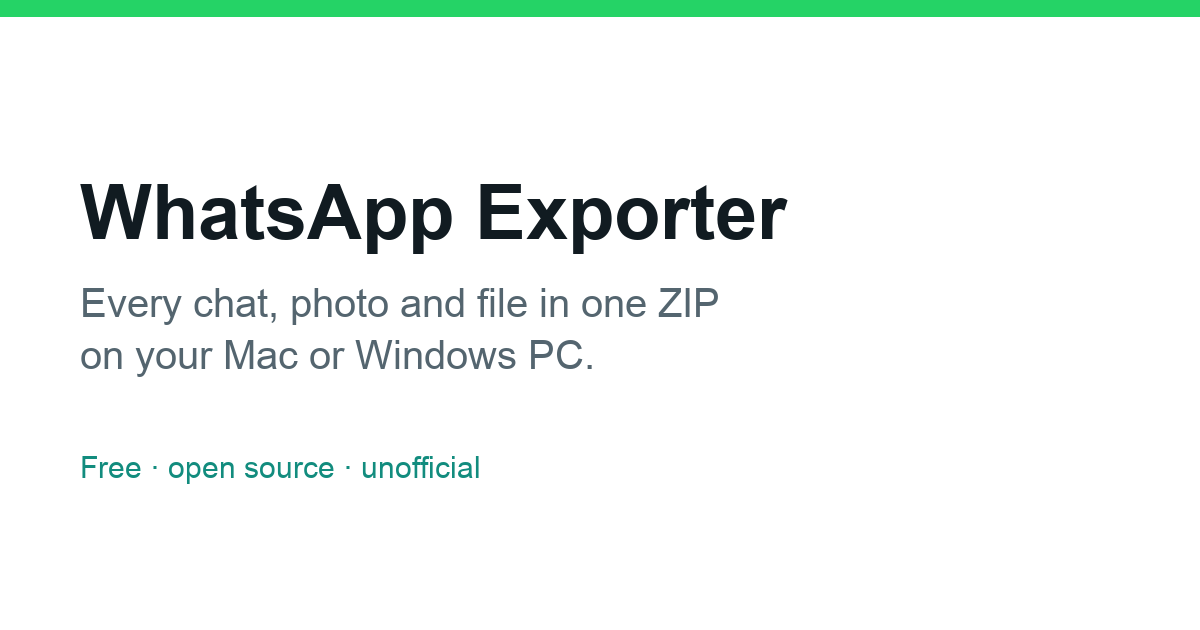
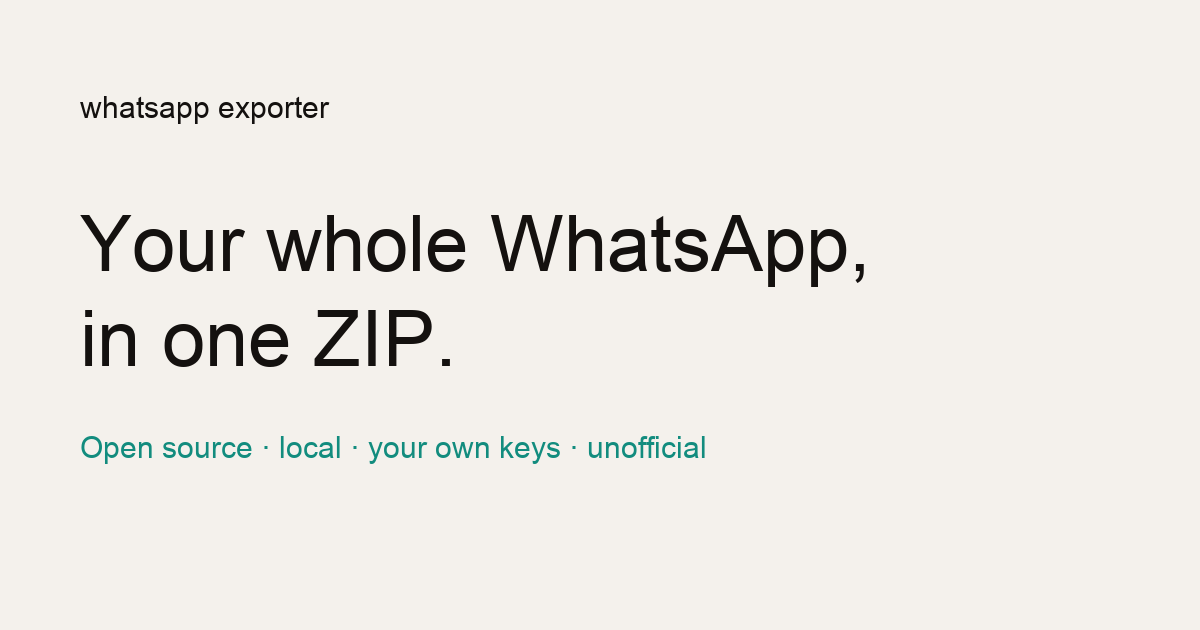
Redesign the website as a hero and three sections
Warm paper look with one green accent: a hero with the install line and a
terminal window, then sharing data freely with a redaction example,
privacy and ownership, and how it works in three steps.

diff --git a/docs/index.html b/docs/index.html
@@ -4,94 +4,264 @@
 <meta charset="utf-8">
 <meta name="viewport" content="width=device-width, initial-scale=1">
 <title>WhatsApp Exporter</title>
-<meta name="description" content="Save every WhatsApp chat, photo and file into one ZIP on your Mac or Windows PC, with optional redaction of personal details. Free and open source.">
+<meta name="description" content="Save every WhatsApp chat, photo and file into one ZIP on your computer. Hide personal details so you can share it freely. Open source, local, your own keys.">
 <meta property="og:title" content="WhatsApp Exporter">
-<meta property="og:description" content="Every chat, photo and file in one ZIP on your computer. Free, open source, unofficial.">
+<meta property="og:description" content="Every chat in one ZIP on your computer. Redact it and share it freely. Open source and local.">
 <meta property="og:image" content="https://girumdoctours.github.io/whatsapp-exporter/og.png">
 <meta name="twitter:card" content="summary_large_image">
 <meta name="color-scheme" content="light">
+<link rel="preconnect" href="https://fonts.googleapis.com">
+<link rel="preconnect" href="https://fonts.gstatic.com" crossorigin>
+<link href="https://fonts.googleapis.com/css2?family=Inter:wght@400;500;600&family=JetBrains+Mono:wght@400;600&display=swap" rel="stylesheet">
 <style>
-:root{--green:#25d366;--dark:#128c7e;--ink:#111b21;--muted:#54656f;--line:#e2e8ea;--soft:#f0f2f5}
+:root{
+  --paper:#f4f1ec;--paper2:#efebe4;--ink:#14110f;--muted:rgba(20,17,15,.55);--faint:rgba(20,17,15,.42);
+  --green:#128c7e;--green-soft:#e3f1ec;--line:rgba(20,17,15,.08);
+  --tray:rgba(255,255,255,.55);--shadow:0 24px 60px -30px rgba(70,50,30,.35);
+}
 *{box-sizing:border-box}
-body{margin:0;background:#fff;color:var(--ink);font:17px/1.6 -apple-system,BlinkMacSystemFont,"Segoe UI",Roboto,Helvetica,Arial,sans-serif}
-main{max-width:720px;margin:0 auto;padding:56px 20px 40px}
-h1{font-size:clamp(32px,6vw,44px);line-height:1.1;margin:0 0 14px;letter-spacing:-.02em}
-h2{font-size:22px;margin:40px 0 12px}
-p{margin:0 0 14px}
-.lede{font-size:19px;color:var(--muted)}
-.small{font-size:14px;color:var(--muted)}
-a{color:var(--dark)}
-.tabs{display:flex;gap:8px;margin:20px 0 12px}
-.tabs button{flex:0 0 auto;border:1px solid var(--line);background:#fff;color:var(--ink);font:600 15px inherit;font-family:inherit;padding:8px 18px;border-radius:999px;cursor:pointer}
-.tabs button[aria-selected="true"]{background:var(--green);border-color:var(--green);color:#fff}
-.cmd{display:flex;gap:10px;align-items:flex-start;background:var(--soft);border:1px solid var(--line);border-radius:12px;padding:14px}
-.cmd code{flex:1;font:14px/1.5 ui-monospace,Menlo,Consolas,monospace;word-break:break-all}
-.copy{flex:0 0 auto;background:var(--dark);color:#fff;border:0;border-radius:8px;padding:8px 14px;font:600 14px inherit;font-family:inherit;cursor:pointer}
-ol,ul{margin:12px 0 0;padding-left:22px}
-li{margin-bottom:6px}
-.tag{font:13px ui-monospace,Menlo,monospace;background:#e7fce3;color:#0b6e4f;border-radius:5px;padding:1px 5px}
-footer{max-width:720px;margin:0 auto;padding:20px;border-top:1px solid var(--line);font-size:14px;color:var(--muted)}
+[hidden]{display:none!important}
+html{scroll-behavior:smooth}
+body{margin:0;background:var(--paper);color:var(--ink);font:16px/1.6 Inter,-apple-system,BlinkMacSystemFont,"Segoe UI",Roboto,sans-serif;-webkit-font-smoothing:antialiased}
+.mono{font-family:"JetBrains Mono",ui-monospace,Menlo,Consolas,monospace}
+a{color:inherit}
+.wrap{max-width:1120px;margin:0 auto;padding:0 32px}
+nav{position:fixed;top:0;left:0;right:0;z-index:20;padding:14px 32px;display:flex;justify-content:space-between;align-items:center;background:rgba(244,241,236,.72);backdrop-filter:blur(14px) saturate(1.2);-webkit-backdrop-filter:blur(14px) saturate(1.2)}
+.mark{font-weight:500;font-size:17px;letter-spacing:-.01em;text-decoration:none}
+.pills{display:flex;gap:10px}
+.pill{display:inline-flex;align-items:center;gap:8px;height:40px;padding:0 18px;border-radius:99px;font-size:15px;font-weight:500;text-decoration:none;background:rgba(255,255,255,.62);backdrop-filter:blur(14px) saturate(1.3);-webkit-backdrop-filter:blur(14px) saturate(1.3);box-shadow:inset 0 0 0 1px rgba(255,255,255,.85),0 8px 24px -12px rgba(70,50,30,.28);border:0;cursor:pointer;color:var(--ink)}
+.pill.solid{background:var(--ink);color:#fff;box-shadow:0 8px 24px -12px rgba(20,17,15,.6)}
+.pill.green{background:var(--green);color:#fff;box-shadow:0 8px 24px -12px rgba(18,140,126,.7)}
+h1,h2{font-weight:400;letter-spacing:-.035em;margin:0}
+h1{font-size:clamp(40px,5.2vw,60px);line-height:1.04}
+h2{font-size:clamp(34px,4.4vw,54px);line-height:1.05}
+.sub{font-size:20px;line-height:1.5;color:var(--faint);margin:20px 0 0;max-width:30em}
+.label{font-size:13px;font-weight:500;color:var(--green);letter-spacing:.02em;margin-bottom:16px;display:flex;align-items:center;gap:8px}
+.label::before{content:"";width:6px;height:6px;border-radius:50%;background:var(--green)}
+.tray{background:var(--tray);border-radius:30px;padding:14px;box-shadow:var(--shadow);box-shadow:inset 0 0 0 1px rgba(255,255,255,.7),var(--shadow)}
+.card{background:#fff;border-radius:20px;box-shadow:0 1px 0 rgba(20,17,15,.04)}
+header{min-height:88vh;display:flex;align-items:center;padding:110px 0 60px}
+.hero{display:grid;grid-template-columns:1fr 1.05fr;gap:56px;align-items:center}
+.ctas{display:flex;flex-wrap:wrap;gap:10px;margin-top:30px}
+.get{margin-top:28px;max-width:470px}
+.seg{display:inline-flex;gap:4px;background:rgba(20,17,15,.05);border-radius:99px;padding:4px;margin-bottom:10px}
+.seg button{border:0;background:transparent;font:500 14px Inter,sans-serif;color:var(--muted);padding:6px 14px;border-radius:99px;cursor:pointer}
+.seg button[aria-selected="true"]{background:#fff;color:var(--ink);box-shadow:0 2px 8px -4px rgba(70,50,30,.35)}
+.line{display:flex;gap:10px;align-items:center;background:#fff;border-radius:14px;padding:10px 10px 10px 16px;box-shadow:inset 0 0 0 1px var(--line)}
+.line code{flex:1;font-size:12.5px;line-height:1.5;word-break:break-all;color:var(--ink)}
+.copy{flex:0 0 auto;border:0;background:var(--ink);color:#fff;font:500 13px Inter,sans-serif;padding:8px 14px;border-radius:10px;cursor:pointer}
+.fine{font-size:13px;color:var(--faint);margin-top:10px}
+.term{border-radius:18px;overflow:hidden;background:#1d1b1a;color:#ece8e2;box-shadow:0 30px 70px -30px rgba(40,25,10,.55)}
+.term .bar{display:flex;align-items:center;gap:7px;padding:12px 14px;background:#2a2725}
+.term .bar i{width:11px;height:11px;border-radius:50%;background:#ff5f57}
+.term .bar i:nth-child(2){background:#febc2e}.term .bar i:nth-child(3){background:#28c840}
+.term .bar span{flex:1;text-align:center;font-size:12px;color:#9d968d;margin-right:40px}
+.term pre{margin:0;padding:18px 20px 22px;font-size:13px;line-height:1.6;white-space:pre-wrap}
+.d{color:#8f887f}.ok{color:#3ecf8e}.b{color:#fff;font-weight:600}.g{color:#7fd8c6}
+section{padding:120px 0}
+.row{display:grid;grid-template-columns:1fr 1fr;gap:72px;align-items:center}
+.row.flip .text{order:2}
+.text p{color:var(--muted);font-size:17px;margin:18px 0 0;max-width:28em}
+.bul{list-style:none;padding:0;margin:22px 0 0}
+.bul li{display:flex;gap:10px;margin:0 0 10px;color:var(--ink);font-size:16px}
+.bul li::before{content:"";flex:0 0 6px;height:6px;border-radius:50%;background:var(--green);margin-top:9px}
+.chat{padding:18px}
+.chat .head{display:flex;justify-content:space-between;align-items:center;font-size:12px;color:var(--faint);margin-bottom:12px}
+.bubble{background:var(--paper);border-radius:16px 16px 16px 6px;padding:10px 14px;font-size:14.5px;line-height:1.5;margin-bottom:8px;max-width:92%}
+.bubble.me{background:var(--green-soft);border-radius:16px 16px 6px 16px;margin-left:auto}
+.who{font-size:12px;font-weight:600;margin-bottom:2px;color:var(--green)}
+.tag{font:500 12px "JetBrains Mono",monospace;color:var(--green);background:var(--green-soft);border-radius:6px;padding:1px 5px;white-space:nowrap}
+.bubble.me .tag{background:#fff}
+.swap{display:flex;justify-content:center;margin:-2px 0 10px;font-size:12px;color:var(--faint);gap:8px;align-items:center}
+.swap::before,.swap::after{content:"";height:1px;flex:1;background:var(--line)}
+.grid{display:grid;grid-template-columns:1fr 1fr;gap:10px}
+.fact{padding:18px}
+.fact b{display:block;font-weight:500;font-size:16px;margin-bottom:4px}
+.fact span{font-size:14px;color:var(--muted);line-height:1.5;display:block}
+.fact .ic{width:30px;height:30px;border-radius:9px;background:var(--green-soft);display:grid;place-items:center;margin-bottom:12px}
+.fact .ic svg{width:16px;height:16px;stroke:var(--green);fill:none;stroke-width:2;stroke-linecap:round;stroke-linejoin:round}
+.steps{display:grid;grid-template-columns:repeat(3,1fr);gap:16px;margin-top:48px}
+.step{padding:14px}
+.step .shot{background:var(--paper);border-radius:14px;height:150px;display:grid;place-items:center;overflow:hidden;margin-bottom:14px}
+.step h3{font-size:18px;font-weight:500;letter-spacing:-.01em;margin:4px 6px 4px}
+.step p{font-size:14.5px;color:var(--muted);margin:0 6px 6px}
+.num{font-size:12px;color:var(--faint);margin:0 6px}
+.mini{font-size:11px;line-height:1.55;background:#1d1b1a;color:#ece8e2;border-radius:10px;padding:10px 12px;width:86%}
+.phone{width:92px;height:132px;border-radius:18px;background:#fff;box-shadow:0 10px 30px -14px rgba(70,50,30,.45);display:grid;place-items:center;transform:translateY(16px)}
+.qr{width:58px;height:58px;background:conic-gradient(from 90deg at 2px 2px,#14110f 90deg,transparent 0) 0 0/8px 8px,var(--paper);border-radius:6px;opacity:.85}
+.files{font-size:12px;line-height:1.9;color:var(--ink);text-align:left}
+.files div{padding-left:14px}.files .top{padding-left:0;font-weight:600}
+.end{text-align:center;padding:90px 0 60px}
+.end .ctas{justify-content:center}
+footer{padding:28px 32px 40px;display:flex;flex-wrap:wrap;justify-content:space-between;gap:12px;font-size:13px;color:var(--faint)}
+footer a{color:var(--faint)}
+.js .rise{opacity:0;transform:translateY(16px);transition:opacity .7s ease,transform .7s ease}
+.js .rise.in{opacity:1;transform:none}
+@media (prefers-reduced-motion:reduce){.js .rise{opacity:1;transform:none;transition:none}html{scroll-behavior:auto}}
+@media (max-width:920px){
+  .hero,.row{grid-template-columns:1fr;gap:40px}
+  .row.flip .text{order:0}
+  section{padding:80px 0}
+  .steps{grid-template-columns:1fr}
+}
+@media (max-width:560px){
+  .wrap{padding:0 18px}
+  nav{padding:14px 18px}
+  .pills .pill:not(.green){display:none}
+  header{padding-top:90px;min-height:auto}
+  .grid{grid-template-columns:1fr}
+  .term pre{font-size:11.5px}
+  .sub{font-size:18px}
+}
 </style>
+<script>document.documentElement.classList.add('js')</script>
 </head>
 <body>
-<main>
-  <h1>WhatsApp Exporter</h1>
-  <p class="lede">Save every WhatsApp chat, photo, voice note and file into one ZIP on your Mac or Windows PC. Optionally hide names, numbers and other personal details first.</p>
-  <p class="small">Free and <a href="https://github.com/GirumDoctours/whatsapp-exporter">open source</a>. Unofficial: not made by or affiliated with WhatsApp or Meta.</p>
+<nav>
+  <a class="mark" href="#top">whatsapp exporter</a>
+  <div class="pills">
+    <a class="pill" href="https://github.com/GirumDoctours/whatsapp-exporter">GitHub</a>
+    <a class="pill green" href="#get">Get it →</a>
+  </div>
+</nav>
 
-  <h2>Get it</h2>
-  <div class="tabs" role="tablist">
-    <button role="tab" aria-selected="true" data-os="mac">Mac</button>
-    <button role="tab" aria-selected="false" data-os="win">Windows</button>
-  </div>
-  <div id="mac">
-    <div class="cmd"><code id="mac-line">/bin/bash -c "$(curl -fsSL https://gist.githubusercontent.com/GirumDoctours/74929d87bb6c220c23bea4d9d1b37377/raw/install.sh)"</code><button class="copy" data-copy="mac-line">Copy</button></div>
-    <ol>
-      <li>Open <b>Terminal</b> (⌘ Space, type Terminal, Enter), paste the line and press Enter.</li>
-      <li>Pick with the arrow keys. Start with <b>Run a quick test</b> (10 chats, about 3 minutes).</li>
-      <li>On your phone: <b>Settings → Linked Devices → Link a Device</b>, and scan the code.</li>
-      <li>Keep WhatsApp open. The ZIP lands on your Desktop.</li>
-    </ol>
-  </div>
-  <div id="win" hidden>
-    <div class="cmd"><code id="win-line">irm https://gist.githubusercontent.com/GirumDoctours/74929d87bb6c220c23bea4d9d1b37377/raw/install.ps1 | iex</code><button class="copy" data-copy="win-line">Copy</button></div>
-    <ol>
-      <li>Open <b>PowerShell</b> (Start, type PowerShell, Enter), paste the line and press Enter.</li>
-      <li>Pick with the arrow keys. Start with <b>Run a quick test</b> (10 chats, about 3 minutes).</li>
-      <li>On your phone: <b>Settings → Linked Devices → Link a Device</b>, and scan the code.</li>
-      <li>Keep WhatsApp open. The ZIP lands on your Desktop.</li>
-    </ol>
-  </div>
-  <p class="small" style="margin-top:14px">Needs macOS 13+ or 64-bit Windows 10/11.</p>
+<header id="top">
+  <div class="wrap hero">
+    <div>
+      <h1>Your whole WhatsApp,<br>in one ZIP.</h1>
+      <p class="sub">Every chat, photo and voice note, saved to your computer in one go. Hide the personal bits and share it with anyone.</p>
+      <div class="get" id="get">
+        <div class="seg" role="tablist">
+          <button role="tab" aria-selected="true" data-os="mac">Mac</button>
+          <button role="tab" aria-selected="false" data-os="win">Windows</button>
+        </div>
+        <div class="line" data-for="mac"><code class="mono" id="mac-line">/bin/bash -c "$(curl -fsSL https://gist.githubusercontent.com/GirumDoctours/74929d87bb6c220c23bea4d9d1b37377/raw/install.sh)"</code><button class="copy" data-copy="mac-line">Copy</button></div>
+        <div class="line" data-for="win" hidden><code class="mono" id="win-line">irm https://gist.githubusercontent.com/GirumDoctours/74929d87bb6c220c23bea4d9d1b37377/raw/install.ps1 | iex</code><button class="copy" data-copy="win-line">Copy</button></div>
+        <p class="fine" data-for="mac">Paste into Terminal and press Enter. macOS 13 or newer.</p>
+        <p class="fine" data-for="win" hidden>Paste into PowerShell and press Enter. Windows 10 or 11, 64-bit.</p>
+      </div>
+    </div>
+    <div class="tray rise">
+      <div class="term">
+        <div class="bar"><i></i><i></i><i></i><span>Terminal</span></div>
+<pre><span class="b">WhatsApp Exporter</span>
 
-  <h2>Good to know</h2>
-  <ul>
-    <li>One folder per chat with its messages and media, plus a spreadsheet of all chats.</li>
-    <li>Redaction swaps details for tags, like <span class="tag">{{PATIENT_FIRST_NAME}}</span>. It uses Claude with your own Anthropic API key (about $1 per 10 busy chats). Check the result before sharing.</li>
-    <li>Everything stays on your computer, except chat text sent to Claude when you redact.</li>
-    <li>It links like WhatsApp Web and unlinks itself when done. Unofficial clients are against WhatsApp's terms; read-only use is low risk, but not zero.</li>
-  </ul>
-</main>
-<footer>WhatsApp Exporter · <a href="https://github.com/GirumDoctours/whatsapp-exporter">GitHub</a> · GPL-3.0</footer>
+<span class="d">What would you like to do?</span>
+<span class="ok">✔</span> Run a quick test <span class="d">· your 10 latest chats</span>
+
+<span class="d">What should the ZIP contain?</span>
+<span class="ok">✔</span> Redact PII, then zip
+
+<span class="ok">✔</span> Linked to your phone
+<span class="ok">✔</span> Downloading messages      <span class="d">48 sec</span>
+<span class="ok">✔</span> Checking personal details <span class="d">2 min</span>
+<span class="ok">✔</span> Saving the redacted ZIP
+
+  Chats      <span class="g">10</span>
+  Messages   <span class="g">6,900</span>
+  Photos     <span class="g">319</span>
+
+<span class="d">Saved in</span>  ~/Desktop/WhatsApp-11-26-redacted.zip</pre>
+      </div>
+    </div>
+  </div>
+</header>
+
+<section id="share">
+  <div class="wrap row">
+    <div class="tray rise">
+      <div class="card chat">
+        <div class="head"><span>Original</span><span>stays on your computer</span></div>
+        <div class="bubble"><div class="who">Maya Okafor</div>Hi! I'm Maya, 34, flying in from Leeds on 13 March. My sister Zoe's number is +44 7700 900123</div>
+        <div class="swap">redacted</div>
+        <div class="bubble"><div class="who"><span class="tag">{{PATIENT_FULL_NAME}}</span></div>Hi! I'm <span class="tag">{{PATIENT_FIRST_NAME}}</span>, <span class="tag">{{PATIENT_AGE}}</span>, flying in from <span class="tag">{{PATIENT_HOME_CITY}}</span> on <span class="tag">{{ARRIVAL_DATE}}</span>. My sister <span class="tag">{{PATIENT_SISTER_FIRST_NAME}}</span>'s number is <span class="tag">{{PATIENT_SISTER_PHONE}}</span></div>
+        <div class="bubble me">Great, Dr. <span class="tag">{{DOCTOR_LAST_NAME}}</span> at <span class="tag">{{CLINIC_NAME}}</span> can see you then</div>
+      </div>
+    </div>
+    <div class="text">
+      <div class="label">Share it freely</div>
+      <h2>Keep the conversation.<br>Lose the people.</h2>
+      <p>Choose redaction and every personal detail becomes a clear tag. The chat still reads naturally, so you can share it with a colleague, a researcher or an AI without giving anyone away.</p>
+      <ul class="bul">
+        <li>Names, numbers, emails, addresses, ages, IDs and bank details</li>
+        <li>ID photos replaced, text in screenshots blacked out</li>
+        <li>The same person keeps the same tag all the way through</li>
+      </ul>
+    </div>
+  </div>
+</section>
+
+<section id="yours" style="background:var(--paper2)">
+  <div class="wrap row flip">
+    <div class="tray rise">
+      <div class="grid">
+        <div class="card fact"><div class="ic"><svg viewBox="0 0 24 24"><rect x="3" y="4" width="18" height="12" rx="2"/><path d="M8 20h8M12 16v4"/></svg></div><b>Local</b><span>Runs on your computer. The ZIP never leaves it.</span></div>
+        <div class="card fact"><div class="ic"><svg viewBox="0 0 24 24"><path d="M16 18l6-6-6-6M8 6l-6 6 6 6"/></svg></div><b>Open source</b><span>Every line is on GitHub under GPL-3.0.</span></div>
+        <div class="card fact"><div class="ic"><svg viewBox="0 0 24 24"><circle cx="8" cy="15" r="4"/><path d="M11 12l9-9M17 6l3 3"/></svg></div><b>Your own keys</b><span>AI redaction uses your Anthropic key. No account with us.</span></div>
+        <div class="card fact"><div class="ic"><svg viewBox="0 0 24 24"><path d="M12 3l8 3v6c0 5-3.5 8-8 9-4.5-1-8-4-8-9V6z"/></svg></div><b>Hidden first</b><span>Known names and numbers are masked before anything goes to the AI.</span></div>
+        <div class="card fact"><div class="ic"><svg viewBox="0 0 24 24"><path d="M3 6h18M8 6V4h8v2M6 6l1 14h10l1-14"/></svg></div><b>Leaves no trace</b><span>Unlinks from your phone and deletes its working files when done.</span></div>
+        <div class="card fact"><div class="ic"><svg viewBox="0 0 24 24"><path d="M12 2v20M2 12h20"/></svg></div><b>Free</b><span>Exporting costs nothing. Redaction is about $1 per 10 busy chats.</span></div>
+      </div>
+    </div>
+    <div class="text">
+      <div class="label">Private by design</div>
+      <h2>Yours, start<br>to finish.</h2>
+      <p>No servers of ours, no sign-up, nothing kept by us. You can read the code, run it yourself and bring your own AI key. When you redact, only chat text with known details already hidden goes to Anthropic. When it's done, the only thing left is your ZIP.</p>
+      <p style="font-size:14px;color:var(--faint)">Unofficial and not affiliated with WhatsApp or Meta. It links like WhatsApp Web, which is against WhatsApp's terms; read-only use is low risk, but not zero.</p>
+    </div>
+  </div>
+</section>
+
+<section id="how">
+  <div class="wrap">
+    <div class="label">How it works</div>
+    <h2>Three steps.<br>About three minutes.</h2>
+    <div class="steps">
+      <div class="tray step rise">
+        <div class="shot"><div class="mini mono"><span class="d">~ %</span> /bin/bash -c "$(curl -fsSL …/install.sh)"<br><span class="ok">✔</span> Downloading WhatsApp Exporter</div></div>
+        <div class="num">01</div><h3>Paste one line</h3><p>Copy it from the top of this page into Terminal or PowerShell.</p>
+      </div>
+      <div class="tray step rise">
+        <div class="shot"><div class="phone"><div class="qr"></div></div></div>
+        <div class="num">02</div><h3>Scan the code</h3><p>Settings → Linked Devices on your phone, like WhatsApp Web.</p>
+      </div>
+      <div class="tray step rise">
+        <div class="shot"><div class="files mono"><div class="top">📦 WhatsApp-11-26.zip</div><div>📁 Ada Example</div><div>📁 GP-Book club</div><div>📊 index.csv</div></div></div>
+        <div class="num">03</div><h3>Get your ZIP</h3><p>One folder per chat with its messages and media, on your Desktop.</p>
+      </div>
+    </div>
+  </div>
+</section>
+
+<div class="end">
+  <h2>Take your chats with you.</h2>
+  <div class="ctas"><a class="pill green" href="#get">Get it for your computer</a><a class="pill" href="https://github.com/GirumDoctours/whatsapp-exporter">Read the code</a></div>
+</div>
+<footer><span>whatsapp exporter · unofficial · not affiliated with WhatsApp or Meta</span><span><a href="https://github.com/GirumDoctours/whatsapp-exporter">GitHub</a> · GPL-3.0</span></footer>
+
 <script>
-document.querySelectorAll('.tabs button').forEach(function (b) {
-  b.addEventListener('click', function () { show(b.dataset.os); });
-});
-function show(os) {
-  document.querySelectorAll('.tabs button').forEach(function (t) { t.setAttribute('aria-selected', String(t.dataset.os === os)); });
-  document.getElementById('mac').hidden = os !== 'mac';
-  document.getElementById('win').hidden = os !== 'win';
-}
-if (/win/i.test(navigator.platform || navigator.userAgent)) show('win');
-document.querySelectorAll('.copy').forEach(function (b) {
-  b.addEventListener('click', function () {
-    var text = document.getElementById(b.dataset.copy).textContent;
-    navigator.clipboard.writeText(text).then(function () {
-      b.textContent = 'Copied';
-      setTimeout(function () { b.textContent = 'Copy'; }, 1500);
+(function () {
+  function show(os) {
+    document.querySelectorAll('.seg button').forEach(function (b) { b.setAttribute('aria-selected', String(b.dataset.os === os)); });
+    document.querySelectorAll('[data-for]').forEach(function (el) { el.hidden = el.dataset.for !== os; });
+  }
+  document.querySelectorAll('.seg button').forEach(function (b) { b.addEventListener('click', function () { show(b.dataset.os); }); });
+  if (/win/i.test(navigator.platform || navigator.userAgent)) show('win');
+  document.querySelectorAll('.copy').forEach(function (b) {
+    b.addEventListener('click', function () {
+      navigator.clipboard.writeText(document.getElementById(b.dataset.copy).textContent).then(function () {
+        b.textContent = 'Copied';
+        setTimeout(function () { b.textContent = 'Copy'; }, 1500);
+      });
     });
   });
-});
+  var items = document.querySelectorAll('.rise');
+  if (!('IntersectionObserver' in window)) { items.forEach(function (el) { el.classList.add('in'); }); return; }
+  var io = new IntersectionObserver(function (entries) {
+    entries.forEach(function (e) { if (e.isIntersecting) { e.target.classList.add('in'); io.unobserve(e.target); } });
+  }, { threshold: 0.15 });
+  items.forEach(function (el) { io.observe(el); });
+})();
 </script>
 </body>
 </html>
